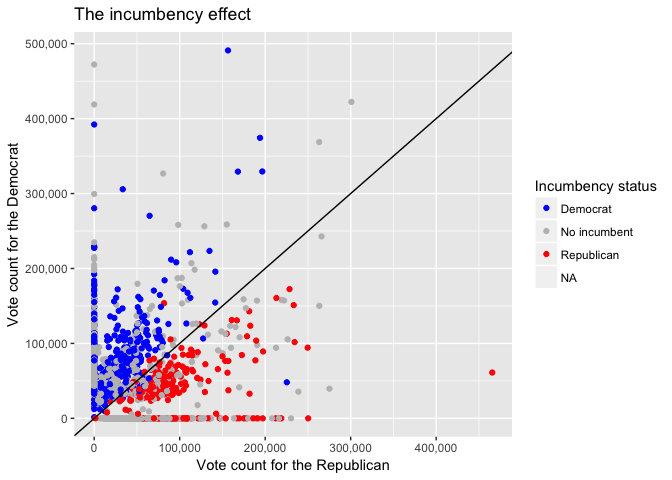
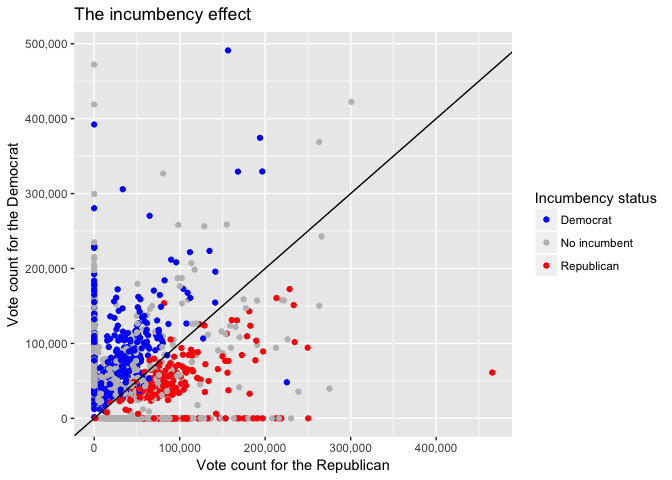
plot is fixed

Changed region(s): [[0.7812, 0.375, 1.0, 0.5938]]

diff --git a/FinalProject/TheWork/FinalProject.md b/FinalProject/TheWork/FinalProject.md
@@ -264,7 +264,9 @@ HSshapefort <- fortify(HSshape, region = "NAME")
 ### Some visualizations
 
 ``` r
-plot1 <- ggplot(Results, aes(y = Leg_Dem, x = Leg_Repub)) +
+legs <- subset(Results, !is.na(incumb_party_name))
+
+plot1 <- ggplot(legs, aes(y = Leg_Dem, x = Leg_Repub)) +
   geom_point(mapping = aes(col = incumb_party_name)) +
   scale_colour_manual(values = c("blue", "grey", "red")) +
   geom_abline(intercept = 0, slope = 1) +
